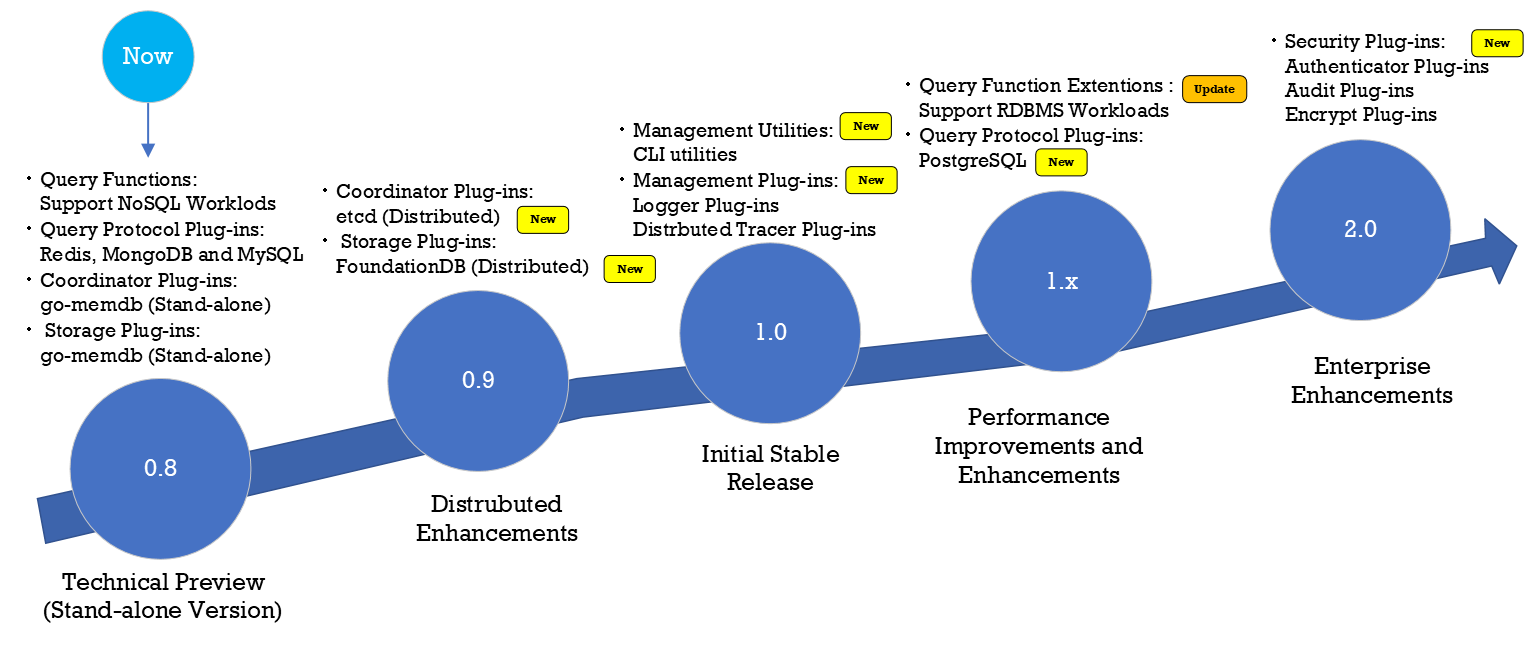
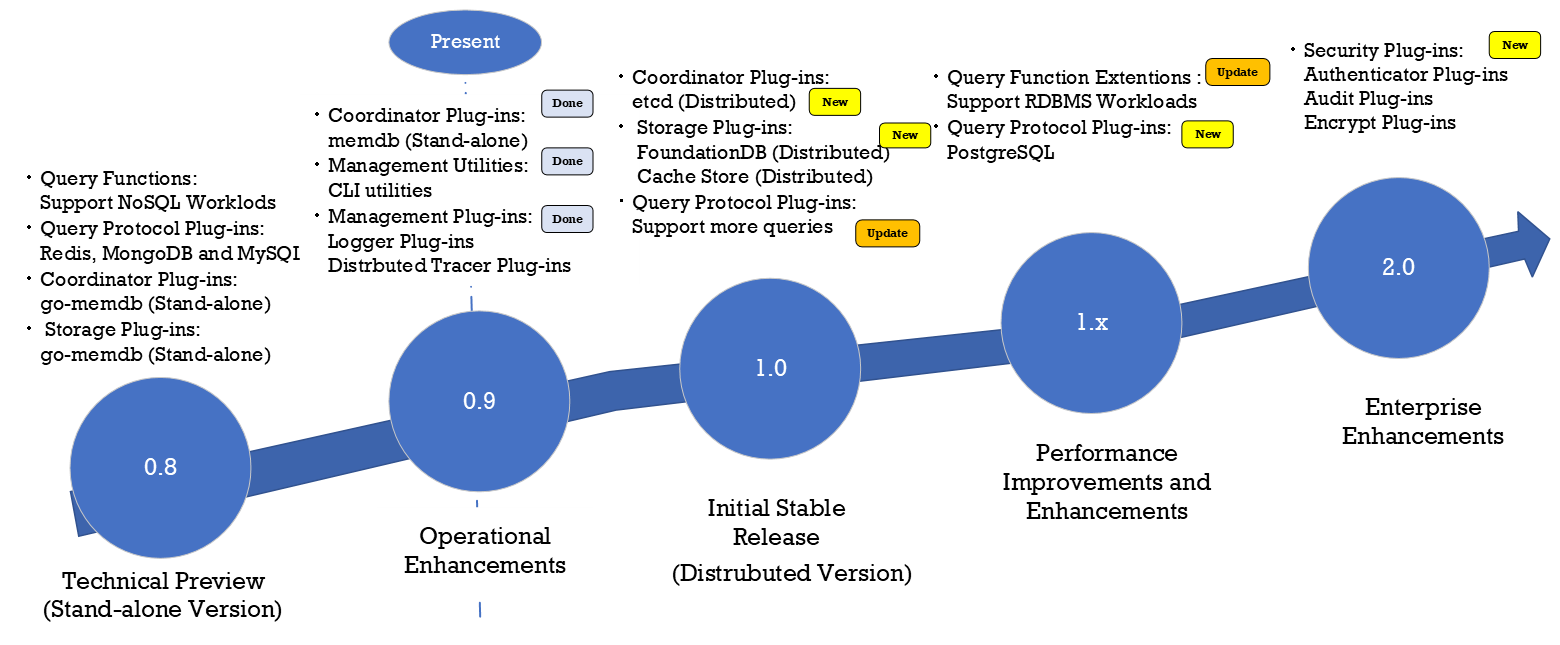
Update documents

diff --git a/doc/roadmap.md b/doc/roadmap.md
@@ -68,6 +68,8 @@ PuzzleDB is currently in a technical preview release. Currently, PuzzleDB is in 
 
             -   ✓ Added FoundationDB plug-in
 
+            -   ❏ Added cache store plug-in
+
 -   Update plug-ins
 
     -   Query plug-ins
@@ -80,7 +82,7 @@ PuzzleDB is currently in a technical preview release. Currently, PuzzleDB is in 
 
                 -   ❏ CREATE INDEX
 
-## v0.9.0 (2023-05-xx)
+## v0.9.0 (2023-05-07)
 
 -   New features
 
